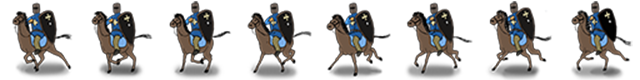
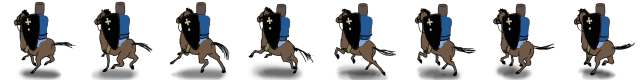
new mountzed knigth images, new popup images

diff --git a/js/resources.js b/js/resources.js
@@ -126,7 +126,7 @@ resources = [
 	 
 	{name: "sound_off", type: "image",
      src: "data/img/gui/audio_icon_off.png"},
-	
+	// units animations
 	{name: "user_farmer_topleft_0", type: "image",
      src: "data/img/armies/animations/farmer/user_farmer_topleft_0.png"},
 	{name: "user_farmer_topright_0", type: "image",
@@ -213,16 +213,22 @@ resources = [
      src: "data/img/gui/font/luxio_font.png"},
 
     // Pop up screens for the tutorial
+	{name: "popup_castle", type: "image",
+     src: "data/img/gui/popup/popup_castle.png"},
+	{name: "popup_servant", type: "image",
+     src: "data/img/gui/popup/popup_servant.png"},
+	{name: "popup_selection", type: "image",
+     src: "data/img/gui/popup/popup_selection.png"},
     {name: "popup_blank", type: "image",
      src: "data/img/gui/popup/popup_blank.png"},
-    {name: "popup_adelardus", type: "image",
-     src: "data/img/gui/popup/popup_adelardus.png"},
+    {name: "popup_takeover", type: "image",
+     src: "data/img/gui/popup/popup_takeover.png"},
+	{name: "popup_enemy", type: "image",
+     src: "data/img/gui/popup/popup_enemy.png"},
     {name: "popup_heren", type: "image",
      src: "data/img/gui/popup/popup_heren.png"},
-    {name: "popup_horigen", type: "image",
-     src: "data/img/gui/popup/popup_horigen.png"},
-    {name: "popup_klooster", type: "image",
-     src: "data/img/gui/popup/popup_klooster.png"},
+    {name: "popup_monastery", type: "image",
+     src: "data/img/gui/popup/popup_monastery.png"},
     {name: "popup_standen", type: "image",
      src: "data/img/gui/popup/popup_standen.png"},
     {name: "popup_start", type: "image",

diff --git a/js/searchtargetstrategy.js b/js/searchtargetstrategy.js
@@ -28,19 +28,12 @@ SearchTargetStrategy.prototype.search = function(player)
 	}
 	return buildings[i];
 };
- 
-/*SearchTargetStrategy.prototype.sayBye = function() 
-{
-	return "Goodbye.";
-};
-*/
 
 // searching from on of his buildings for the closest building which is not owend by the player and returns it
 var SearchClosestTargetStrategy = function() {};
 SearchClosestTargetStrategy.prototype = Object.create(SearchTargetStrategy.prototype);
 SearchClosestTargetStrategy.prototype.search = function(player) 
 {
-	console.log("look for target");
 	var buildings = Main.levelScreen.getBuildings();
 	var ownBuidling = null; 
 	for (var i = 0; i < buildings.length - 1; i++)
@@ -65,20 +58,5 @@ SearchClosestTargetStrategy.prototype.search = function(player)
 			}
 		}
 	}
-	console.log(currentTarget);
 	return currentTarget;
-};
- 
-var SearchTargetStrategy = function() {};
-SearchTargetStrategy.prototype = Object.create(SearchTargetStrategy.prototype);
-SearchTargetStrategy.prototype.search = function() 
-{
-	return "Hey, ";
-};
- 
-var BoredGreetingStrategy = function() {};
-BoredGreetingStrategy.prototype = Object.create(SearchTargetStrategy.prototype);
-BoredGreetingStrategy.prototype.search = function() 
-{
-	return "sup, ";
 };

diff --git a/js/entities/ai.js b/js/entities/ai.js
@@ -21,11 +21,11 @@ Main.AI = Object.extend(
 
     init: function(difficulty)
     {
-		this.randomStartegy = new SearchTarget(new SearchTargetStrategy());
+		this.randomStrategy = new SearchTarget(new SearchTargetStrategy());
 		this.closestStrategy = new SearchTarget(new SearchClosestTargetStrategy());
 		
 		
-		this.setSearchTargetStrategy(this.closestStrategy);
+		this.setSearchTargetStrategy(this.randomStrategy);
 		if (difficulty == null) {
             difficulty = 1;
         }
@@ -99,7 +99,6 @@ Main.AI = Object.extend(
 			
             if (this.getTotalStrength() >=
                        this.currentTarget.calculateDefencePower()) {
-				console.log(this.currentTarget);
                 this.attack(this.currentTarget);
                 this.wavesSent++;
                 if (this.wavesSent >= this.wavesToSend) {
@@ -123,8 +122,6 @@ Main.AI = Object.extend(
     // no such building
     /*getNewTarget : function(player)
     {
-       
-		
 		console.log("new function " +searchTarget.search(this.player));
 		
 		var buildings = Main.levelScreen.getBuildings();

diff --git a/js/constants.js b/js/constants.js
@@ -10,7 +10,7 @@ Constants =
 
     startMuted: false, // whether the game starts muted
 
-    allLevelsPlayable: false, // if true, all levels start playable
+    allLevelsPlayable: true, // if true, all levels start playable
 
     players: [
         "neutral",
